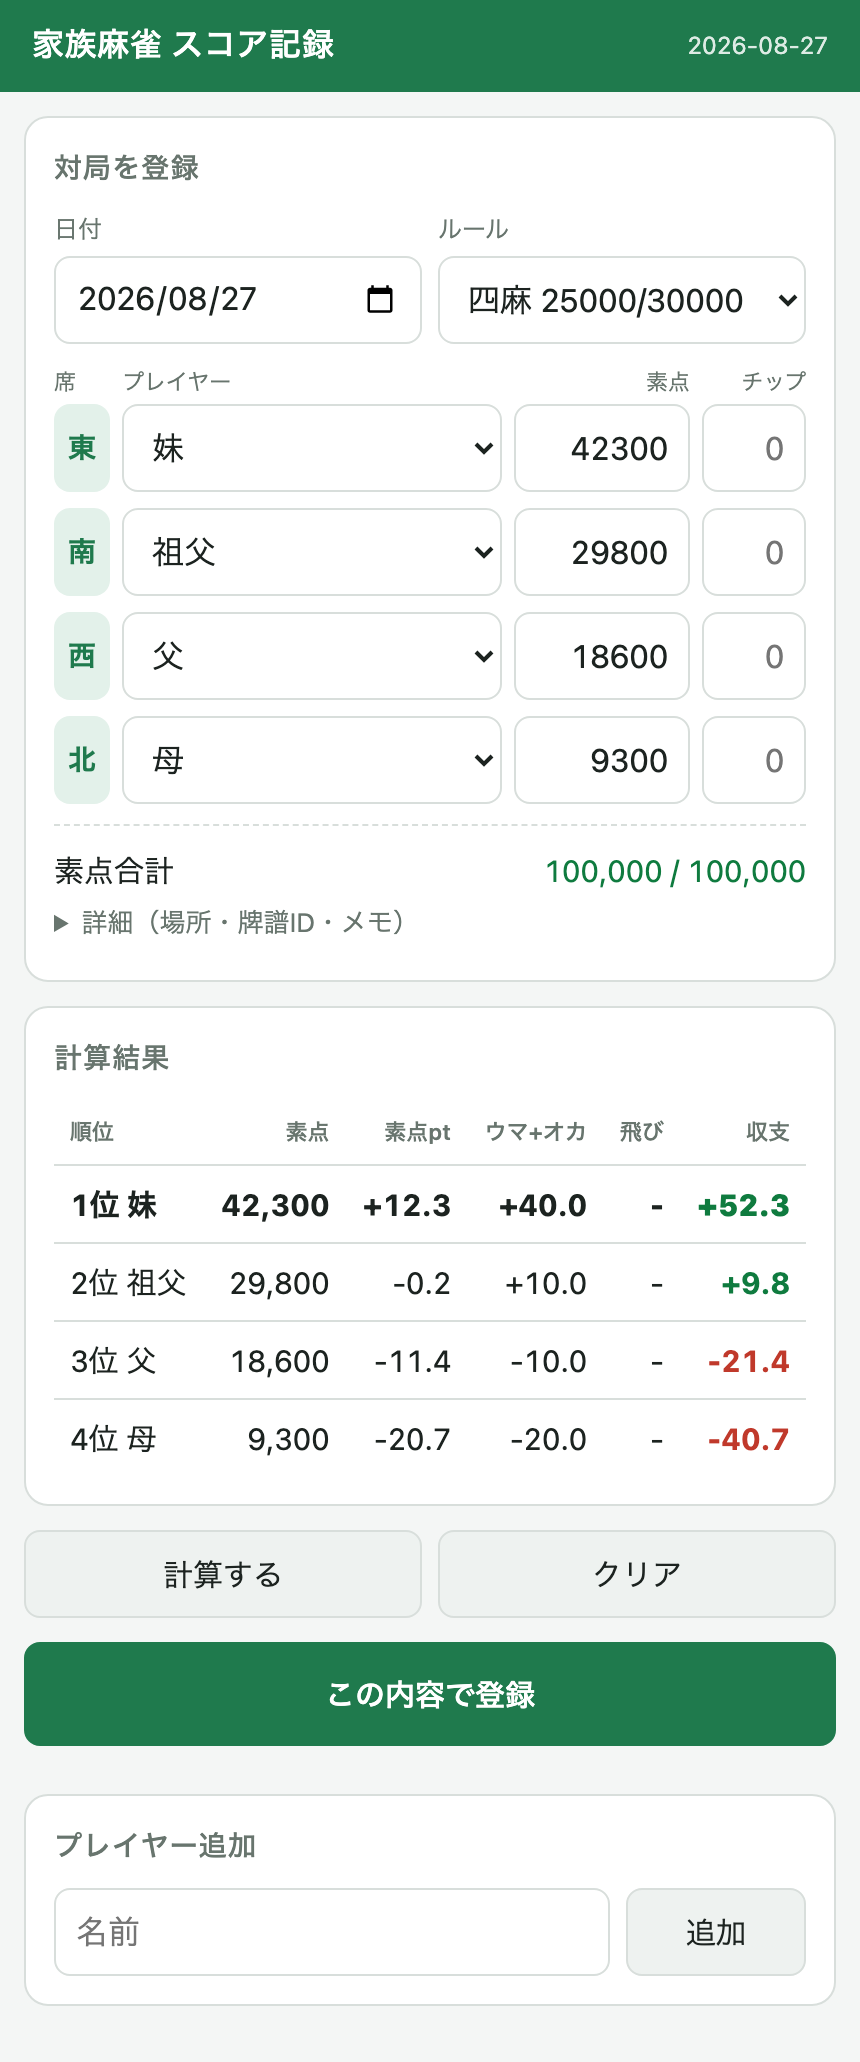
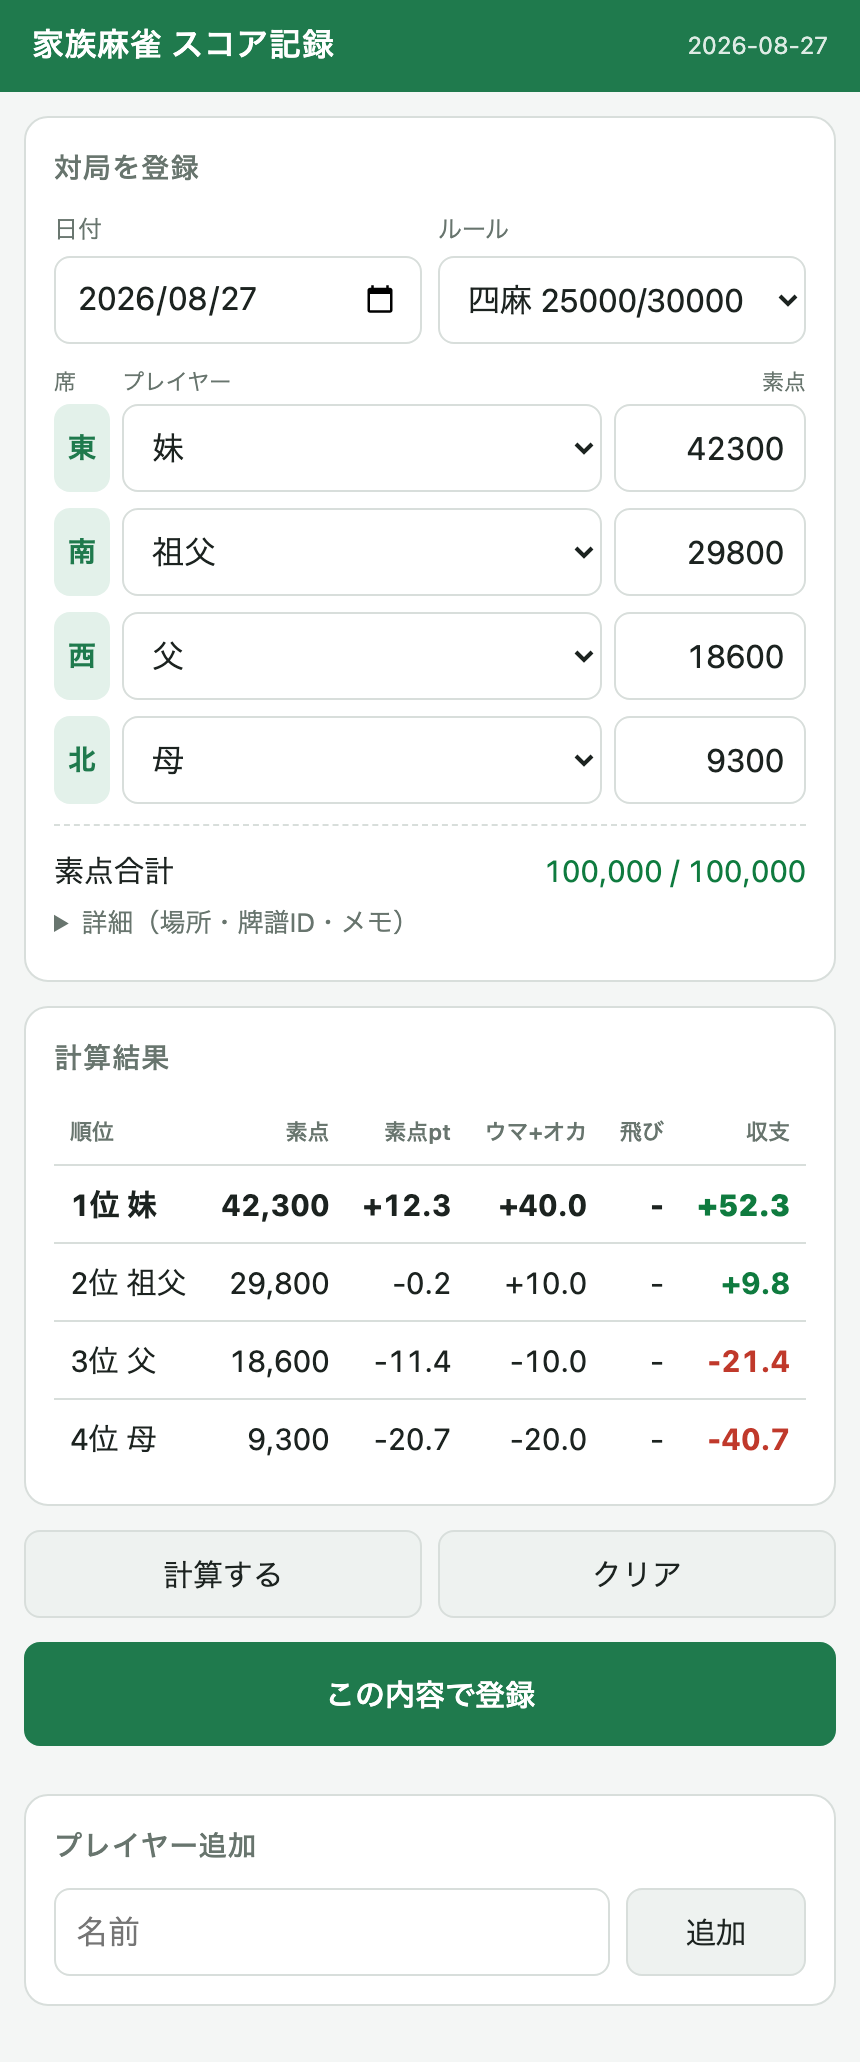
Remove chips, a tally nothing in the app ever used
Chips were kept as an account beside the pt one: a column on every result
row, an input on every seat, a column in the day and career tables, and a
warning when the table's chips did not cancel out. But the app records 素点
and nothing else -- there is no chip rate, chips never enter a total, and
the推移 graph deliberately refused to plot them. Every chip in the sheet was
a zero, so the column bought a narrower player select and one more field to
tab past for nothing.

Take it out of the schema, the scoring, the aggregation, the API, and both
tables. The entry row is three columns now, and 素点 grows 88px -> 96px to
take up the freed width. validateGameEntries keeps only the raw-score check;
its comment loses the chip adjustment as the reason a sum may legitimately
not balance and names a carried-over deposit instead.

The Results sheet loses a column in the middle, so an existing spreadsheet
needs its chips column (M) deleted by hand -- rows are read by position, and
the app would otherwise read tobi out of the chips column. The screenshots
are reshot; docs/screen-stats.png is unchanged because the chip column sat
past the right edge of that table's scroll box anyway.

Changed region(s): [[0.6651, 0.1862, 0.907, 0.4035], [0.5744, 0.1862, 0.6047, 0.4035], [0.8767, 0.1862, 0.907, 0.2173]]

diff --git a/src/js.html b/src/js.html
@@ -204,8 +204,6 @@
         '<select data-seat="' + seat + '" class="in-player">' + playerOptions(prior.playerId) + '</select>' +
         '<input type="number" step="100" class="in-score" data-seat="' + seat + '" placeholder="0" value="' +
         (prior.rawScore === undefined || prior.rawScore === '' ? '' : prior.rawScore) + '">' +
-        '<input type="number" step="1" class="in-chips" data-seat="' + seat + '" placeholder="0" value="' +
-        (prior.chips ? prior.chips : '') + '">' +
         '</div>';
     }
     $('seat-grid').innerHTML = html;
@@ -223,12 +221,10 @@
     var entries = [];
     Array.prototype.forEach.call($('seat-grid').querySelectorAll('.seat-row'), function (row, seat) {
       var scoreText = row.querySelector('.in-score').value;
-      var chipText = row.querySelector('.in-chips').value;
       entries.push({
         seat: seat,
         playerId: row.querySelector('.in-player').value,
-        rawScore: loose ? scoreText : Number(scoreText || 0),
-        chips: loose ? chipText : Number(chipText || 0)
+        rawScore: loose ? scoreText : Number(scoreText || 0)
       });
     });
     return entries;
@@ -338,8 +334,7 @@
     { label: '平均', key: 'avgPt' },
     { label: '平順', key: 'avgRank' },
     { label: '着順分布', key: null, ranks: true },
-    { label: '飛び', key: 'tobiCount' },
-    { label: 'チップ', key: 'chips' }
+    { label: '飛び', key: 'tobiCount' }
   ];
 
   /**
@@ -405,8 +400,7 @@
       if (showRanks) {
         html += '<td>' + row.rankCounts.slice(0, Math.max(3, maxRank)).join('-') + '</td>';
       }
-      html += '<td>' + (row.tobiCount || '-') + '</td>' +
-        '<td>' + (row.chips ? (row.chips > 0 ? '+' : '') + row.chips : '-') + '</td></tr>';
+      html += '<td>' + (row.tobiCount || '-') + '</td></tr>';
     });
     return html + '</tbody></table></div>';
   }
@@ -430,8 +424,7 @@
     var rows = game.results.map(function (row) {
       return '<tr class="rank-' + row.rank + '"><td>' + row.rank + '位 ' + escapeHtml(row.name) + '</td>' +
         '<td>' + row.rawScore.toLocaleString() + '</td>' +
-        '<td class="' + ptClass(row.totalPt) + '">' + fmtPt(row.totalPt) + '</td>' +
-        '<td>' + (row.chips ? (row.chips > 0 ? '+' : '') + row.chips : '') + '</td></tr>';
+        '<td class="' + ptClass(row.totalPt) + '">' + fmtPt(row.totalPt) + '</td></tr>';
     }).join('');
 
     return '<div class="game-card">' + head +
@@ -847,7 +840,7 @@
       $('in-note').value = game.note || '';
       $('in-recorder').value = game.recordedBy || '';
       renderSeats(game.results.map(function (row) {
-        return { playerId: row.playerId, rawScore: row.rawScore, chips: row.chips };
+        return { playerId: row.playerId, rawScore: row.rawScore };
       }));
       $('preview-area').innerHTML = '';
       window.scrollTo(0, 0);

diff --git a/tests/api.test.js b/tests/api.test.js
@@ -31,8 +31,7 @@ const gamePayload = (players, scores, overrides) =>
     entries: scores.map((rawScore, seat) => ({
       seat,
       playerId: players[seat].playerId,
-      rawScore,
-      chips: 0
+      rawScore
     }))
   }, overrides);
 
@@ -86,7 +85,7 @@ test('a day mixing table sizes is summarised separately but listed together', ()
     gameDate: '2026-08-24',
     ruleId: three.ruleId,
     entries: players.slice(0, 3).map((player, seat) => ({
-      seat, playerId: player.playerId, rawScore: [50000, 35000, 20000][seat], chips: 0
+      seat, playerId: player.playerId, rawScore: [50000, 35000, 20000][seat]
     }))
   });
 
@@ -125,9 +124,9 @@ test('a three-player game uses its own rule and stays zero-sum', () => {
     gameDate: '2026-08-24',
     ruleId: 'R002',
     entries: [
-      { seat: 0, playerId: players[0].playerId, rawScore: 50000, chips: 0 },
-      { seat: 1, playerId: players[1].playerId, rawScore: 35000, chips: 0 },
-      { seat: 2, playerId: players[2].playerId, rawScore: 20000, chips: 0 }
+      { seat: 0, playerId: players[0].playerId, rawScore: 50000 },
+      { seat: 1, playerId: players[1].playerId, rawScore: 35000 },
+      { seat: 2, playerId: players[2].playerId, rawScore: 20000 }
     ]
   });
 
@@ -261,7 +260,7 @@ test('statistics cover one table size at a time', () => {
     gameDate: '2026-08-24',
     ruleId: three.ruleId,
     entries: players.slice(0, 3).map((player, seat) => ({
-      seat, playerId: player.playerId, rawScore: [50000, 35000, 20000][seat], chips: 0
+      seat, playerId: player.playerId, rawScore: [50000, 35000, 20000][seat]
     }))
   });
 
@@ -336,16 +335,6 @@ test('statistics stay zero-sum and expose a cumulative series', () => {
     assert.equal(last('avgPt'), player.avgPt);
     assert.equal(last('avgRank'), player.avgRank);
   });
-});
-
-test('chip imbalance is warned about', () => {
-  const { app, players } = freshApp();
-  const payload = gamePayload(players, [45200, 28700, 17800, 8300]);
-  payload.entries[0].chips = 2;
-  const saved = app.call('apiSubmitGame', payload);
-
-  assert.equal(saved.warnings.length, 1);
-  assert.match(saved.warnings[0], /チップの合計/);
 });
 
 test('index.html resolves its includes and leaves no template tags', () => {

diff --git a/src/Domain.js b/src/Domain.js
@@ -23,14 +23,13 @@
  * @property {number} seat        0 = East (first dealer), 1 = South, 2 = West, 3 = North.
  * @property {string} playerId
  * @property {number} rawScore    Final score in points.
- * @property {number} [chips]     Chips exchanged. Positive means received.
  */
 
 /**
  * One player's computed result.
  * @typedef {PlayerEntry & {
  *   rank: number, scorePt: number, umaPt: number, okaPt: number,
- *   tobiPt: number, totalPt: number, chips: number, tobi: boolean
+ *   tobiPt: number, totalPt: number, tobi: boolean
  * }} ComputedResult
  */
 
@@ -136,7 +135,6 @@ function computeGameResults(entries, rule) {
       okaPt: okaPt,
       tobiPt: tobiPt,
       totalPt: roundPt(scorePt + umaPt + okaPt + tobiPt),
-      chips: entry.chips || 0,
       tobi: isTobi
     };
   });
@@ -146,7 +144,7 @@ function computeGameResults(entries, rule) {
  * Checks a game for the mistakes that actually happen when typing scores in.
  *
  * These are warnings, not errors: the caller may still save the game, because
- * a house rule or a manual chip adjustment can legitimately break the sums.
+ * a house rule such as carrying a deposit over can legitimately break the sum.
  *
  * @param {PlayerEntry[]} entries
  * @param {RuleConfig} rule
@@ -160,10 +158,6 @@ function validateGameEntries(entries, rule) {
     warnings.push('素点の合計が ' + actual.toLocaleString() + ' 点です（' +
       expected.toLocaleString() + ' 点であるべきで、差は ' +
       (actual - expected).toLocaleString() + ' 点）');
-  }
-  var chipSum = entries.reduce(function (sum, e) { return sum + (e.chips || 0); }, 0);
-  if (chipSum !== 0) {
-    warnings.push('チップの合計が ' + chipSum + ' 枚です（0 であるべきです）');
   }
   return warnings;
 }

diff --git a/src/Stats.js b/src/Stats.js
@@ -20,7 +20,6 @@
  * @property {number} rank4Rate   Share finished fourth; 0 at a three-player table.
  * @property {number} tobiRate    Share of games ended below zero.
  * @property {number} tobiCount   Games ended below zero.
- * @property {number} chips       Net chips.
  */
 
 /**
@@ -55,7 +54,7 @@ function aggregatePlayerStats(results) {
         playerId: row.playerId,
         games: 0, totalPt: 0, avgPt: 0, avgRank: 0,
         rankCounts: [0, 0, 0, 0],
-        avgRawScore: 0, tobiCount: 0, chips: 0,
+        avgRawScore: 0, tobiCount: 0,
         rank1Rate: 0, rank2Rate: 0, rank3Rate: 0, rank4Rate: 0, tobiRate: 0,
         _rankSum: 0, _scoreSum: 0
       };
@@ -64,7 +63,6 @@ function aggregatePlayerStats(results) {
     stats.totalPt += row.totalPt;
     stats._rankSum += row.rank;
     stats._scoreSum += row.rawScore;
-    stats.chips += row.chips || 0;
     if (row.tobi) stats.tobiCount += 1;
     if (row.rank >= 1 && row.rank <= 4) stats.rankCounts[row.rank - 1] += 1;
   });
@@ -88,8 +86,7 @@ function aggregatePlayerStats(results) {
       rank3Rate: round(stats.rankCounts[2] / games, 3),
       rank4Rate: round(stats.rankCounts[3] / games, 3),
       tobiRate: round(stats.tobiCount / games, 3),
-      tobiCount: stats.tobiCount,
-      chips: stats.chips
+      tobiCount: stats.tobiCount
     };
   }).sort(function (a, b) { return b.totalPt - a.totalPt; });
 }

diff --git a/tests/stats.test.js b/tests/stats.test.js
@@ -8,7 +8,7 @@ const { aggregatePlayerStats, buildSeries } =
   loadPureFunctions(['Stats.js'], ['aggregatePlayerStats', 'buildSeries']);
 
 const row = (gameId, playerId, rank, totalPt, extra) =>
-  Object.assign({ gameId, playerId, rank, totalPt, rawScore: 25000, chips: 0, tobi: false }, extra);
+  Object.assign({ gameId, playerId, rank, totalPt, rawScore: 25000, tobi: false }, extra);
 
 test('aggregates games, points and rank distribution per player', () => {
   const results = [
@@ -54,17 +54,17 @@ test('a three-player table leaves the fourth-place rate at zero', () => {
   assert.equal(stats.find((s) => s.playerId === 'P2').rank3Rate, 0);
 });
 
-test('counts bankruptcies and nets chips', () => {
+test('counts bankruptcies', () => {
   const results = [
-    row('G1', 'P1', 1, 60, { chips: 3 }),
-    row('G1', 'P2', 4, -50, { chips: -3, tobi: true }),
-    row('G2', 'P2', 4, -40, { chips: 1, tobi: true })
+    row('G1', 'P1', 1, 60),
+    row('G1', 'P2', 4, -50, { tobi: true }),
+    row('G2', 'P2', 4, -40, { tobi: true })
   ];
   const stats = aggregatePlayerStats(results);
 
   const p2 = stats.find((s) => s.playerId === 'P2');
   assert.equal(p2.tobiCount, 2);
-  assert.equal(p2.chips, -2);
+  assert.equal(p2.tobiRate, 1);
 });
 
 test('rates are counted per game played', () => {

diff --git a/src/Schema.js b/src/Schema.js
@@ -21,7 +21,7 @@ var SCHEMA = {
     'startPoints', 'returnPoints', 'uma', 'tobiBonus', 'venue',
     'paifuId', 'note', 'recordedBy', 'deleted', 'createdAt', 'updatedAt'],
   Results: ['resultId', 'gameId', 'gameDate', 'seat', 'playerId', 'rawScore', 'rank',
-    'scorePt', 'umaPt', 'okaPt', 'tobiPt', 'totalPt', 'chips', 'tobi', 'deleted']
+    'scorePt', 'umaPt', 'okaPt', 'tobiPt', 'totalPt', 'tobi', 'deleted']
 };
 
 /**
@@ -31,7 +31,7 @@ var SCHEMA = {
 var NUMBER_COLUMNS = {
   playerCount: true, startPoints: true, returnPoints: true, tobiBonus: true,
   seat: true, rawScore: true, rank: true, scorePt: true,
-  umaPt: true, okaPt: true, tobiPt: true, totalPt: true, chips: true
+  umaPt: true, okaPt: true, tobiPt: true, totalPt: true
 };
 
 /**

diff --git a/src/css.html b/src/css.html
@@ -181,7 +181,7 @@
   .seat-grid { display: grid; gap: 8px; }
   .seat-row {
     display: grid;
-    grid-template-columns: 28px minmax(0, 1fr) 88px 52px;
+    grid-template-columns: 28px minmax(0, 1fr) 96px;
     gap: 6px;
     align-items: center;
   }
@@ -200,13 +200,13 @@
   }
   .seat-head {
     display: grid;
-    grid-template-columns: 28px minmax(0, 1fr) 88px 52px;
+    grid-template-columns: 28px minmax(0, 1fr) 96px;
     gap: 6px;
     font-size: 11px;
     color: var(--muted);
     margin-bottom: 2px;
   }
-  .seat-head span:nth-child(3), .seat-head span:nth-child(4) { text-align: right; }
+  .seat-head span:nth-child(3) { text-align: right; }
 
   .sum-line {
     display: flex;

diff --git a/docs/index.html b/docs/index.html
@@ -169,7 +169,7 @@
 
 <script>
   var CAPTIONS = {
-    entry: '登録 — 素点とチップを入力。合計をその場で検証し、確定前に順位と収支をプレビューします。',
+    entry: '登録 — 素点を入力。合計をその場で検証し、確定前に順位と収支をプレビューします。',
     today: '今日 — その日の対局一覧と、四麻・三麻に分けたプレイヤー別集計。',
     history: '履歴 — 期間で絞った対局一覧。ここから訂正と削除ができます（表示は先頭数件のみ）。',
     stats: '統計 — 通算成績と成績の推移。見出しをタップすると並べ替えられます。',

diff --git a/src/Api.js b/src/Api.js
@@ -11,7 +11,6 @@
  * @property {number} seat
  * @property {string} playerId
  * @property {number} rawScore
- * @property {number} [chips]
  */
 
 /**
@@ -145,8 +144,7 @@ function parseGameInput_(input) {
     return {
       seat: normalizeNumber(entry.seat),
       playerId: playerId,
-      rawScore: rawScore,
-      chips: normalizeNumber(entry.chips)
+      rawScore: rawScore
     };
   });
 
@@ -226,7 +224,6 @@ function buildResultRows_(gameId, gameDate, computed) {
       okaPt: result.okaPt,
       tobiPt: result.tobiPt,
       totalPt: result.totalPt,
-      chips: result.chips,
       tobi: result.tobi,
       deleted: false
     };

diff --git a/tests/domain.test.js b/tests/domain.test.js
@@ -114,15 +114,6 @@ test('validateGameEntries flags a wrong score total', () => {
   assert.match(warnings[0], /素点の合計/);
 });
 
-test('validateGameEntries flags unbalanced chips', () => {
-  const list = entries(45000, 30000, 15000, 10000);
-  list[0].chips = 3;
-  list[1].chips = -1;
-  const warnings = validateGameEntries(list, RULE4);
-  assert.equal(warnings.length, 1);
-  assert.match(warnings[0], /チップの合計/);
-});
-
 test('validateGameEntries returns nothing for a clean game', () => {
   assert.deepEqual(validateGameEntries(entries(45000, 30000, 15000, 10000), RULE4), []);
 });

diff --git a/dev/e2e-script.js b/dev/e2e-script.js
@@ -336,7 +336,6 @@
       check('グラフの見出しは指標によらず一定', chartTitle() === '成績の推移', chartTitle());
       check('既定のグラフは合計', activeMetric() === 'totalPt', activeMetric());
       check('0の基準線が引かれる', $$('#stats-body svg line').length === 1);
-      check('チップは選べない', !$('#stats-body button[data-metric="chips"]'));
       var byTotalPoints = polylinePoints();
 
       click($('#stats-body button[data-metric="avgRank"]'));

diff --git a/src/index.html b/src/index.html
@@ -51,7 +51,7 @@
         </div>
 
         <div class="seat-head">
-          <span>席</span><span>プレイヤー</span><span>素点</span><span>チップ</span>
+          <span>席</span><span>プレイヤー</span><span>素点</span>
         </div>
         <div class="seat-grid" id="seat-grid"></div>
 
